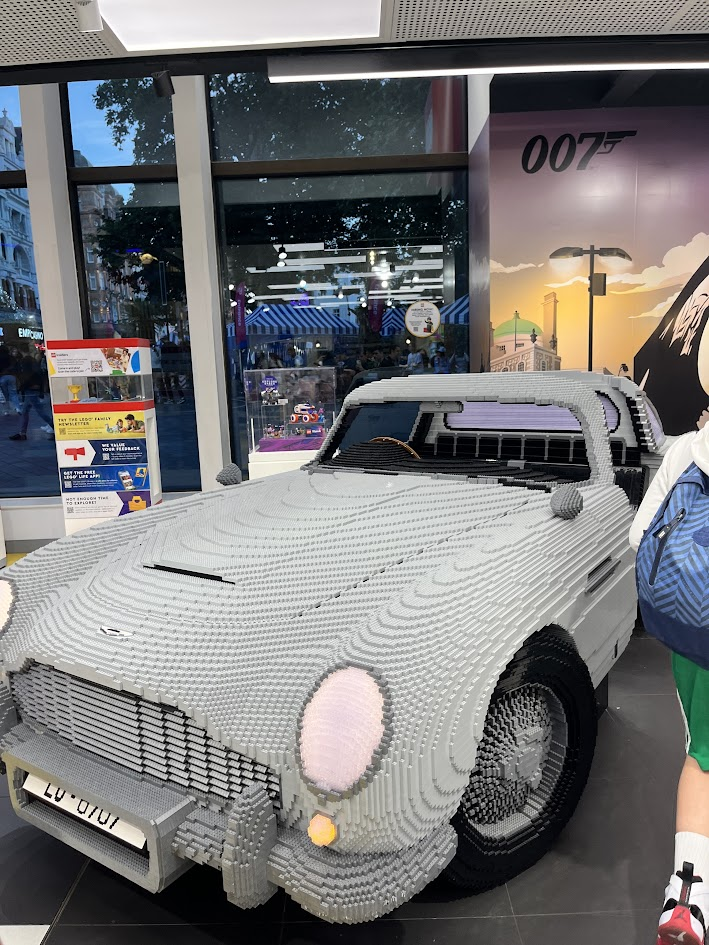
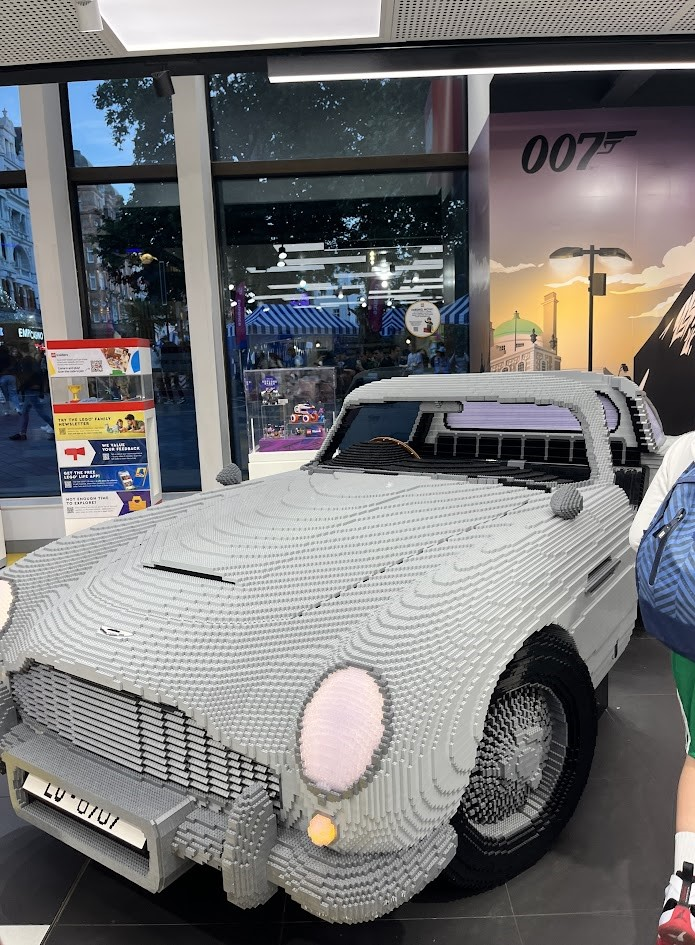
Refactor image file extension in index.html

diff --git a/index.html b/index.html
@@ -179,7 +179,7 @@
             productos exclusivos de edición limitada, que solo puedes encontrar en esta tienda.
           </p>
           <div class="foto-derecha">
-            <img src="imagenes/lego.jpg" alt="Lego Store" />
+            <img src="imagenes/lego.JPG" alt="Lego Store" />
           </div>
         </div>
         <div class="dato-interesante">
